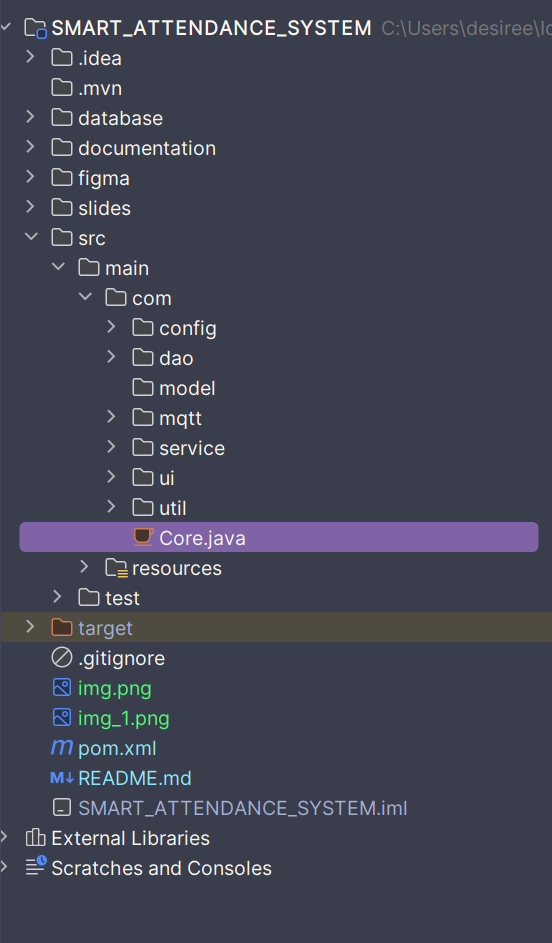
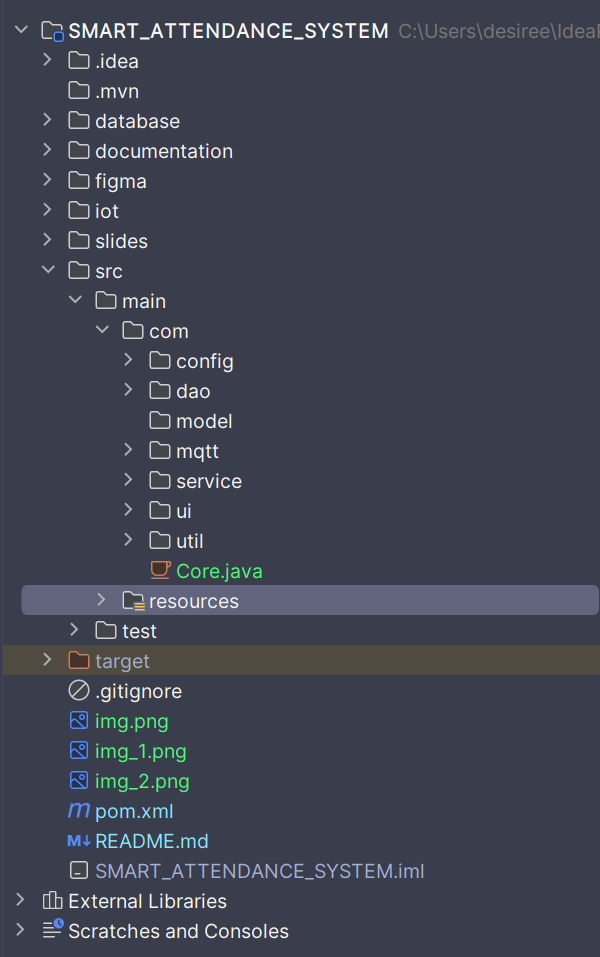
Complete Project Documentation & Fixes

Changed region(s): [[0.0308, 0.0, 1.0, 0.9841], [0.5543, 0.8303, 0.7391, 0.8611]]

diff --git a/README.md b/README.md
@@ -1,57 +1,309 @@
-# PROJECT OVERVIEW
+# Smart Attendance System
 
-This is the project overview for the project title "Development of A Smart Attendance System Java Desktop Application with IoT Integration for Dasmarinas East Integrated High School".
+**Development of a Smart Attendance System Java Desktop Application with IoT Integration for Dasmarinas East Integrated High School (DEIHS)**
 
-## DEPENDENCIES
+An IoT-enabled attendance system that replaces manual paper logs. Students tap an RFID card on an RC522 reader, a NodeMCU ESP8266 publishes the card UID over MQTT, and a Java Swing desktop application validates the scan, records the attendance in MySQL, and updates role-based dashboards in real time.
 
-Below are the dependencies needed to install on your IDE in order for the pom.xml to run properly:
+> Grade 11 TVL-ICT, Computer Programming (Java), TechPro C | Group **JAVAFIGHTERS** | Adviser: Ryan John D. Delos Santos | December 2026
 
-* MySQL ConnectorJ --v26.10.0 (JDBC driver)
-* HiveMQTT --v1.4.2 (MQTT subscriber for NodeMCU)
-* FlatLaF --v3.5.4 (Alternative to CSS styling on JavaFX)
-* JBCrypt --v0.4 (Password hashing)
-* slf4j-simple --v2.0.16 (Logging)
-* Maven Surefire Plugin --v3.5.2 (Unit testing)
-* OpenCsv --v5.12.0 (For CSV exports)
-* Apache POI --v6.0.0 (For xlsx exports)
-* HikariCP --v5.0.1 (Connection pooling)
-* OpenPDF --v2.0.3 (PDF report generation)
-* MySQL --v8.any (Database)
-## MAVEN STRUCTURE
+---
 
-This project will use a maven build w/ regular archetype & will have the following project structure/tree given below:
+## Table of Contents
 
-* Database - Contains the actual database information, tables like user, teacher, admin... and will serve as a schema backup in the case that the JDBC is unable to connect to localhost or URL.
-* Documentation - Will serve as the PDF and DOCS for the project.
-* Figma - The initial design sketch for the main dashboard of the application.
-* IoT - Contains the pinouts and schemaic diagram for the RFID reader.
-* Slides - Powerpoint slides, initial and final for oral presentation
-* Src - Main source code.
+1. [Features](#features)
+2. [How It Works](#how-it-works)
+3. [Tech Stack and Dependencies](#tech-stack-and-dependencies)
+4. [Project Structure](#project-structure)
+5. [Getting Started](#getting-started)
+6. [Front-End Development](#front-end-development)
+7. [Back-End Development](#back-end-development)
+8. [Hardware Development](#hardware-development)
+9. [Integration](#integration)
+10. [Project Status](#project-status)
+11. [Known Issues and Notes](#known-issues-and-notes)
+12. [Documentation](#documentation)
+13. [Team](#team)
 
-![img_3.png](img_3.png)
+---
 
-## FRONT END DEVELOPMENT
+## Features
 
-Using the file format tree below under the file path src/main/com/ui, the dashboards and panels will be separated by the following roles:
+1. **Real-time RFID logging:** instant tap-in and tap-out linked to each student's ID.
+2. **Automated attendance and absence tracking:** running counts of present, late, absent, and excused days.
+3. **Schedule verification and out-of-bounds alerts:** flags scans that do not match the section's class schedule.
+4. **Threshold notifications:** highlights students approaching or exceeding the allowed number of absences.
+5. **Role-based dashboards and reports:** Admin, Teacher, and Student views, with daily/weekly summaries and CSV, Excel, and PDF export.
+6. **Secure login:** BCrypt-hashed passwords with role-based access.
 
-* Admin
-* Teacher
-* Student
+## How It Works
 
-![img_1.png](img_1.png)
+```
+RC522 reader --> NodeMCU ESP8266 --> MQTT broker --> Java Swing app --> MySQL
+ (tap card)      (reads UID,          (message        (validates scan,   (stores records,
+                  shows status        transport)       updates GUI)       alerts, settings)
+                  on OLED)
+```
+
+1. A student taps their card on the **RC522** reader.
+2. The **ESP8266** reads the card UID and publishes it to the **MQTT broker**.
+3. The Java app (an MQTT subscriber) receives the UID and runs these checks:
+   - Is the card registered? If not, log an invalid-card attempt and alert the admin.
+   - Is the scan within the section's class schedule? If not, flag it as out-of-bounds and alert the admin.
+   - Otherwise, record the time-in or time-out and update the attendance counts.
+   - Has the student reached the absence threshold? If so, highlight the student and notify the admin.
+4. The result is shown on the **SSD1315 OLED** and the GUI dashboard refreshes.
+
+The full process is in `documentation/Flowchart.pdf`.
+
+## Tech Stack and Dependencies
+
+| Layer | Technology |
+|---|---|
+| Language | Java 21 (Swing GUI) |
+| Build tool | Maven |
+| IDE | IntelliJ IDEA, Visual Studio Code |
+| Database | MySQL 8.x |
+| IoT hardware | NodeMCU ESP8266, RC522 RFID module, SSD1315 OLED (128x64) |
+| Messaging | MQTT (an MQTT broker such as Eclipse Mosquitto must be running) |
+
+Dependencies are declared in `pom.xml`:
+
+| Dependency | Version | Purpose |
+|---|---|---|
+| MySQL Connector/J | 26.10.0 | JDBC driver |
+| HiveMQ MQTT Client | 1.4.2 | MQTT subscriber for the NodeMCU messages |
+| FlatLaf | 3.5.4 | Modern look-and-feel for Swing (light and dark themes) |
+| jBCrypt | 0.4 | Password hashing |
+| HikariCP | 5.1.0 | JDBC connection pooling |
+| OpenCSV | 5.12.0 | CSV export |
+| Apache POI (`poi-ooxml`) | 6.0.0 | Excel (.xlsx) export |
+| OpenPDF | 2.0.3 | PDF report generation |
+| slf4j-simple | 2.0.16 | Logging |
+| JUnit Jupiter | 5.11.3 (test) | Unit tests |
+| Maven Surefire Plugin | 3.5.2 | Runs the unit tests |
+
+`commons-lang3` (3.20.0), `commons-codec` (1.23.0), and `log4j-api` (2.25.5) are pinned in `<dependencyManagement>` to force patched versions of libraries that POI and OpenCSV pull in.
+
+## Project Structure
+
+This is a Maven project with the following folders:
+
+| Folder | Contents |
+|---|---|
+| `database/` | `schema.sql`: the full database schema and sample data. Also serves as a backup if the JDBC connection to the database fails. |
+| `documentation/` | Project PDFs: title page, flowchart, Gantt chart, system documentation format, oral defense guide. |
+| `figma/` | The design sketches of the dashboards and panels (light and dark modes). |
+| `iot/` | Pinouts and schematic references for the RFID reader and NodeMCU. |
+| `slides/` | PowerPoint slides for the oral presentation. |
+| `src/` | The main source code. |
+
+![Project tree](img_2.png)
+
+Source packages:
+
+| Package | Responsibility |
+|---|---|
+| `config` | `AppConfig` loads `db.properties` and builds the JDBC URL |
+| `model` | Plain data classes (Student, Teacher, AttendanceRecord, and so on) |
+| `dao` | All SQL access: `JDBC`, `UserDao`, `StudentDao`, `TeacherDao`, `SectionDao`, `ScheduleDao`, `AttendanceDao`, `AlertDao` |
+| `service` | Business logic: `AuthService`, `StudentService`, `ScheduleService`, `AttendanceService`, `ReportService` |
+| `mqtt` | `MqttConfig`, `MqttListener`, `ScanListener` |
+| `ui` | Swing dashboards and panels |
+| `util` | `PasswordUtil`, `DateTimeUtil`, `ValidationUtil`, `SessionManager` |
+
+## Getting Started
+
+### Prerequisites
+
+- JDK 21 (or change `maven.compiler.source` and `target` in `pom.xml` to match your JDK)
+- Maven (bundled with IntelliJ IDEA)
+- MySQL 8.x running locally or on your network
+- An MQTT broker (for example, Eclipse Mosquitto)
+
+### 1. Create the database
+
+Run `database/schema.sql` in MySQL Workbench (File > Open SQL Script, then Execute).
+
+> **Warning:** the script begins with `DROP DATABASE IF EXISTS smart_attendance;`, so it erases any existing data in that database.
+
+The sample accounts in the script use **placeholder password hashes**. Generate real hashes with `BCrypt.hashpw("yourPassword", BCrypt.gensalt())` and replace them, or the login will reject those accounts.
+
+### 2. Configure the connection
+
+Edit `src/main/resources/db.properties`:
+
+```properties
+db.host=127.0.0.1
+db.port=3307
+db.name=smart_attendance
+db.user=root
+db.password=your_password_here
+db.pool.size=10
+```
+
+Any value can be overridden at launch with a JVM flag, for example `-Ddb.port=3306`. The JDBC URL uses the `Asia/Manila` time zone.
+
+### 3. Load the Maven project
+
+Open the project in IntelliJ IDEA and click **Reload All Maven Projects**.
+
+### 4. Run
+
+The application's entry point is still being built. Once it is in place, run it from IntelliJ with the main class.
+
+## Front-End Development
+
+The dashboards and panels live in `src/main/com/ui` and are separated by role:
+
+- Admin
+- Teacher
+- Student
+
+![UI classes](img_1.png)
+
+### Components
+
+Each role sees different screens and features.
+
+#### Administrator
+
+| Screen | Functions |
+|---|---|
+| Overview | Live statistics on enrolled, present, absent, and excused students; current RFID activity; quick actions to register a card and generate a report |
+| Students | Student directory with add, edit, delete, search, and filtering |
+| Teachers & sections | Manage teachers, sections, and advisers |
+| Class schedules | Manage the schedules used to verify scans |
+| RFID cards | Register cards and assign them to students |
+| Alerts & thresholds | Review invalid-card attempts, out-of-bounds scans, and students near or over the absence limit |
+| Reports | Generate and export attendance reports |
+
+#### Teacher
+
+| Screen | Functions |
+|---|---|
+| Overview | Class strength and today's present, absent, and excused counts |
+| Class attendance | View the class attendance list with search and export |
+| Excused absences | Mark absences as excused with a reason |
+| Threshold watch | Students approaching the absence limit |
+| Reports | Daily and weekly summaries |
+
+#### Student
+
+| Screen | Functions |
+|---|---|
+| Overview | Attendance rate, present days, absent days, excused days, and today's status |
+| My attendance | Own attendance record and calendar |
+| Excused days | View excused days and their reasons |
 
 ### Figma Sketch
 
-The dashboard will have two modes: light and dark. Below is a rough sketch of what the dashboards will hope to look like showing an overview of the functions of the application:
+The dashboard has two modes, light and dark. Below is the sketch of the main dashboards for each role:
 
-![Main Dashboards.png](figma/Main%20Dashboards.png)
+![Main Dashboards](figma/Main%20Dashboards.png)
 
-## BACK END DEVELOPMENT
+Additional panels (student directory, RFID card management, class attendance, threshold watch, attendance history, excused days) and the color palette are in `figma/Other Panels & Palette.png`.
 
-W.I.P
+## Back-End Development
 
-## HARDWARE DEVELOPMENT
+The project uses a MySQL database (`smart_attendance`) that can be hosted locally or on a network. All tables are created by `database/schema.sql`.
 
-W.I.P
+### Tables
 
-## INTEGRATION
+| Table | Purpose | Key columns |
+|---|---|---|
+| `users` | Login accounts | `user_id`, `username`, `password_hash`, `role` (ADMIN / TEACHER / STUDENT), `is_active`, `last_login` |
+| `teachers` | Teacher profiles | `teacher_id`, `user_id`, `employee_no`, `full_name`, `email`, `contact_no` |
+| `sections` | Class sections | `section_id`, `section_name`, `grade_level`, `strand`, `school_year`, `adviser_id` |
+| `students` | Student profiles | `student_id`, `user_id`, `lrn`, `full_name`, `grade_level`, `section_id`, `status` |
+| `rfid_cards` | Card-to-student assignments | `card_id`, `card_uid`, `student_id`, `status` (ACTIVE / LOST / DISABLED) |
+| `class_schedules` | Schedules for the "within class time?" check | `schedule_id`, `section_id`, `teacher_id`, `subject`, `day_of_week`, `start_time`, `end_time`, `room` |
+| `attendance_records` | One row per student per day | `record_id`, `student_id`, `attendance_date`, `time_in`, `time_out`, `status` (PRESENT / LATE / ABSENT / EXCUSED) |
+| `scan_logs` | Audit trail of every tap | `log_id`, `card_uid`, `student_id`, `scan_time`, `result` (TIME_IN / TIME_OUT / INVALID_CARD / OUT_OF_BOUNDS) |
+| `excused_absences` | Teacher-marked excused days | `excused_id`, `student_id`, `absence_date`, `reason`, `marked_by` |
+| `alerts` | Admin alerts | `alert_id`, `alert_type`, `student_id`, `card_uid`, `message`, `is_read` |
+| `settings` | Key-value configuration | `setting_key`, `setting_value`, `description` |
+
+There is also a view, `v_student_attendance_summary`, which gives present, late, absent, and excused day counts per student. It feeds the threshold list and dashboards.
+
+### Relationships
+
+- A `user` has at most one `teacher` or `student` profile.
+- A `section` has many `students` and many `class_schedules`, and one adviser (a `teacher`).
+- A `student` has `rfid_cards`, `attendance_records`, `scan_logs`, `excused_absences`, and `alerts`.
+- `attendance_records` and `excused_absences` are unique per student per day.
+
+### Settings
+
+| Key | Default | Meaning |
+|---|---|---|
+| `absence_threshold` | 10 | Maximum allowed absences before the drop/expulsion flag |
+| `absence_warning_offset` | 2 | Warn when a student is this many absences from the threshold |
+| `late_grace_minutes` | 15 | Minutes after the start time before a student is marked LATE |
+
+The default threshold is a sample value. Set it to the limit in the school's policy.
+
+## Hardware Development
+
+Components used:
+
+| Component | Role |
+|---|---|
+| NodeMCU ESP8266 | Wi-Fi microcontroller; reads the card and publishes the UID over MQTT |
+| RC522 RFID module with tags | Reads the student cards |
+| SSD1315 OLED 128x64 | Shows the scan status to the student |
+
+ ### Pinouts Reference
+Below are the reference pictures of the pinouts of each components: 
+
+![71doUrqWGuL._AC_UF350,350_QL80_.jpg](iot/71doUrqWGuL._AC_UF350%2C350_QL80_.jpg)![RC522-RFID-Module-Pin-Diagram-Pi.jpg](iot/RC522-RFID-Module-Pin-Diagram-Pi.jpg)![esp8266-nodemcu-pinout.png](iot/esp8266-nodemcu-pinout.png)
+
+### Schematic Diagram
+
+A rough `schematic diagram` & `wiring` are shown below to be used as a reference for the final implementation:
+
+![image_588f4d6e.jpg](iot/image_588f4d6e.jpg)![image_ee10702f.jpg](iot/image_ee10702f.jpg)
+## Integration
+
+Full system integration connects three parts: the ESP8266 firmware publishing UIDs, the MQTT broker, and the Java application subscribing and writing to MySQL. In the Java application:
+
+- `MqttListener` receives each UID and passes it to `AttendanceService`.
+- `AttendanceService` applies the registered-card, class-schedule, and threshold checks, then writes to the database through the DAOs.
+- Because MQTT callbacks arrive on a background thread, GUI updates must go through `SwingUtilities.invokeLater(...)`.
+
+Integration is in progress.
+
+## Project Status
+
+| Area | Status |
+|---|---|
+| Documentation, flowchart, Gantt chart | Done |
+| Figma dashboard sketches | Done |
+| Database schema (`schema.sql`) | Done |
+| Maven setup and dependencies | Done |
+| `AppConfig` (database configuration) | Done |
+| DAO, service, model, MQTT, UI, and util classes | Files created, implementation pending |
+| ESP8266 firmware and RFID wiring | In progress |
+| Reports and exports | Not started |
+| Testing and integration | Not started |
+
+## Documentation
+
+All project documents are in the `documentation/` folder:
+
+- `TITLE.pdf`: approved title proposal and IoT scope letter
+- `Flowchart.pdf`: system flowchart
+- `GANTTCHART.pdf`: project timeline (Nov 15 to Dec 15, 2026)
+- `PROJECT SYSTEM Documentation.pdf`: Chapters 1 to 5 format and submission checklist
+- `ORAL PRESENTATION FINAL DEFENSE.pdf`: defense guide
+
+## Team
+
+**JAVAFIGHTERS** ("Using Java to Fight New Problems"), TechPro C, Grade 11 TVL-ICT
+
+- Bawar, Prince Jarred
+- Infante, Jhan-Ry Peligro
+- Lat, Daniel Raiven Aquino
+- Lipayon, Christopher Tucsano
+- Orense, Citrine Delos Santos
+
+Submitted to: **Ryan John D. Delos Santos**, Senior High School Department, Dasmarinas East Integrated High School.
